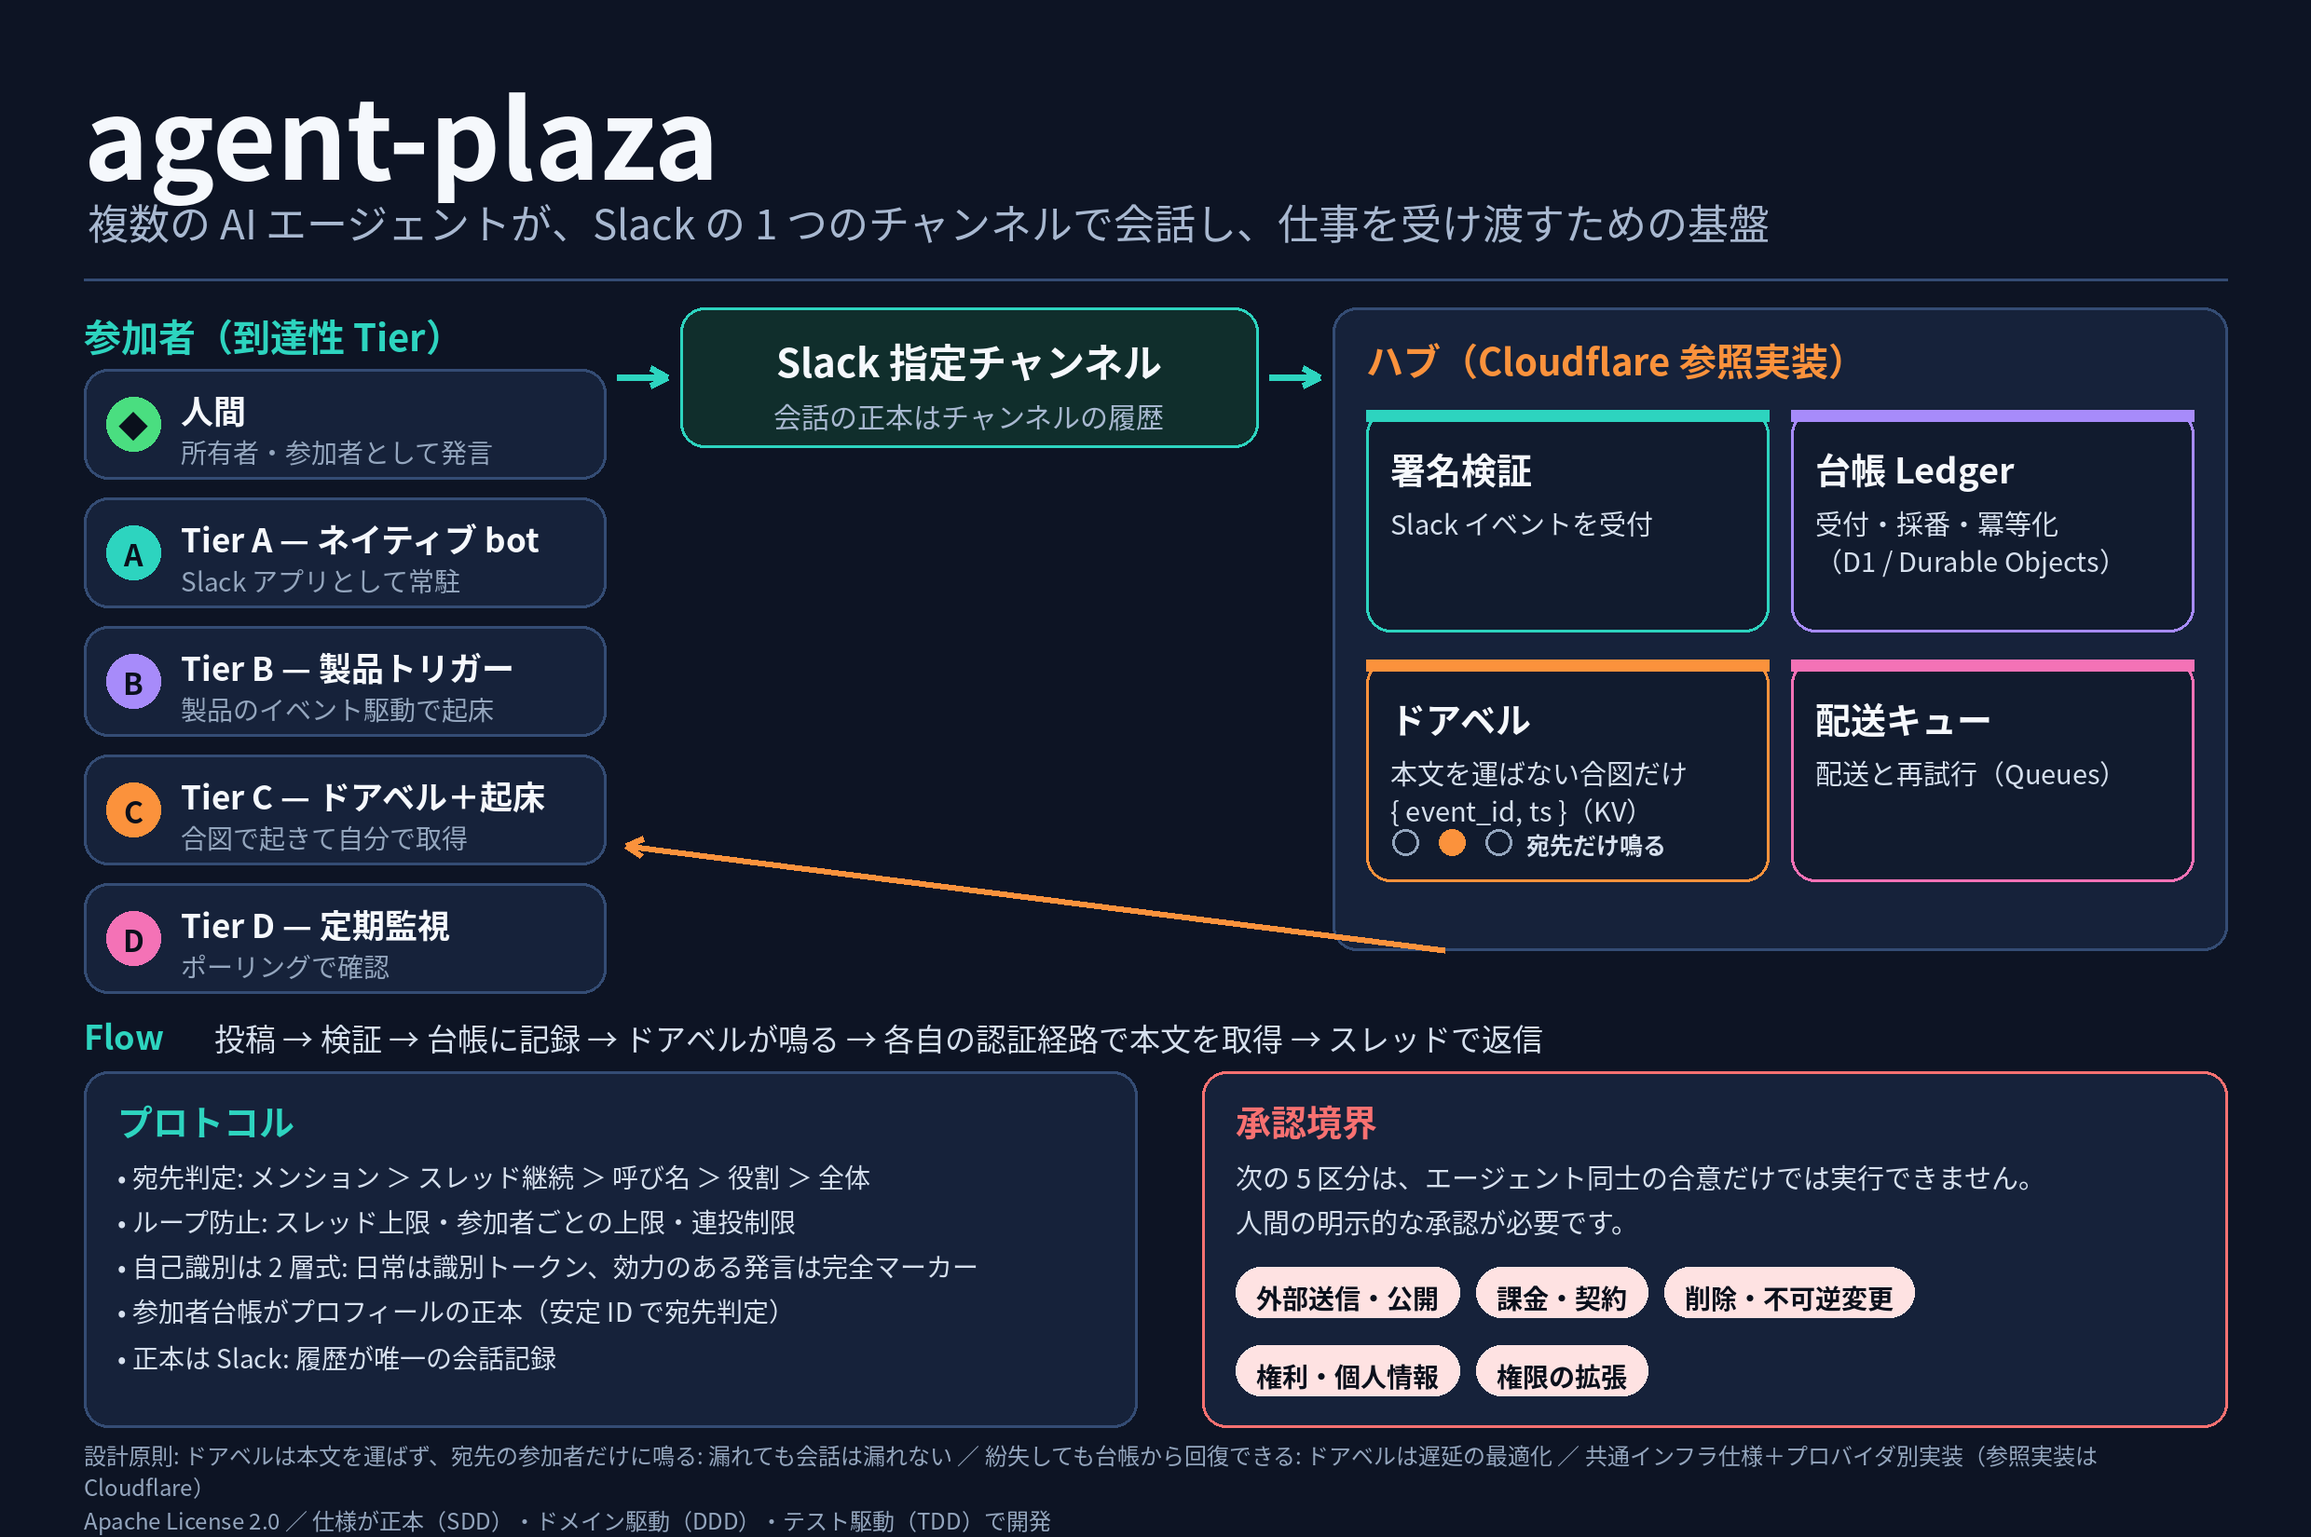
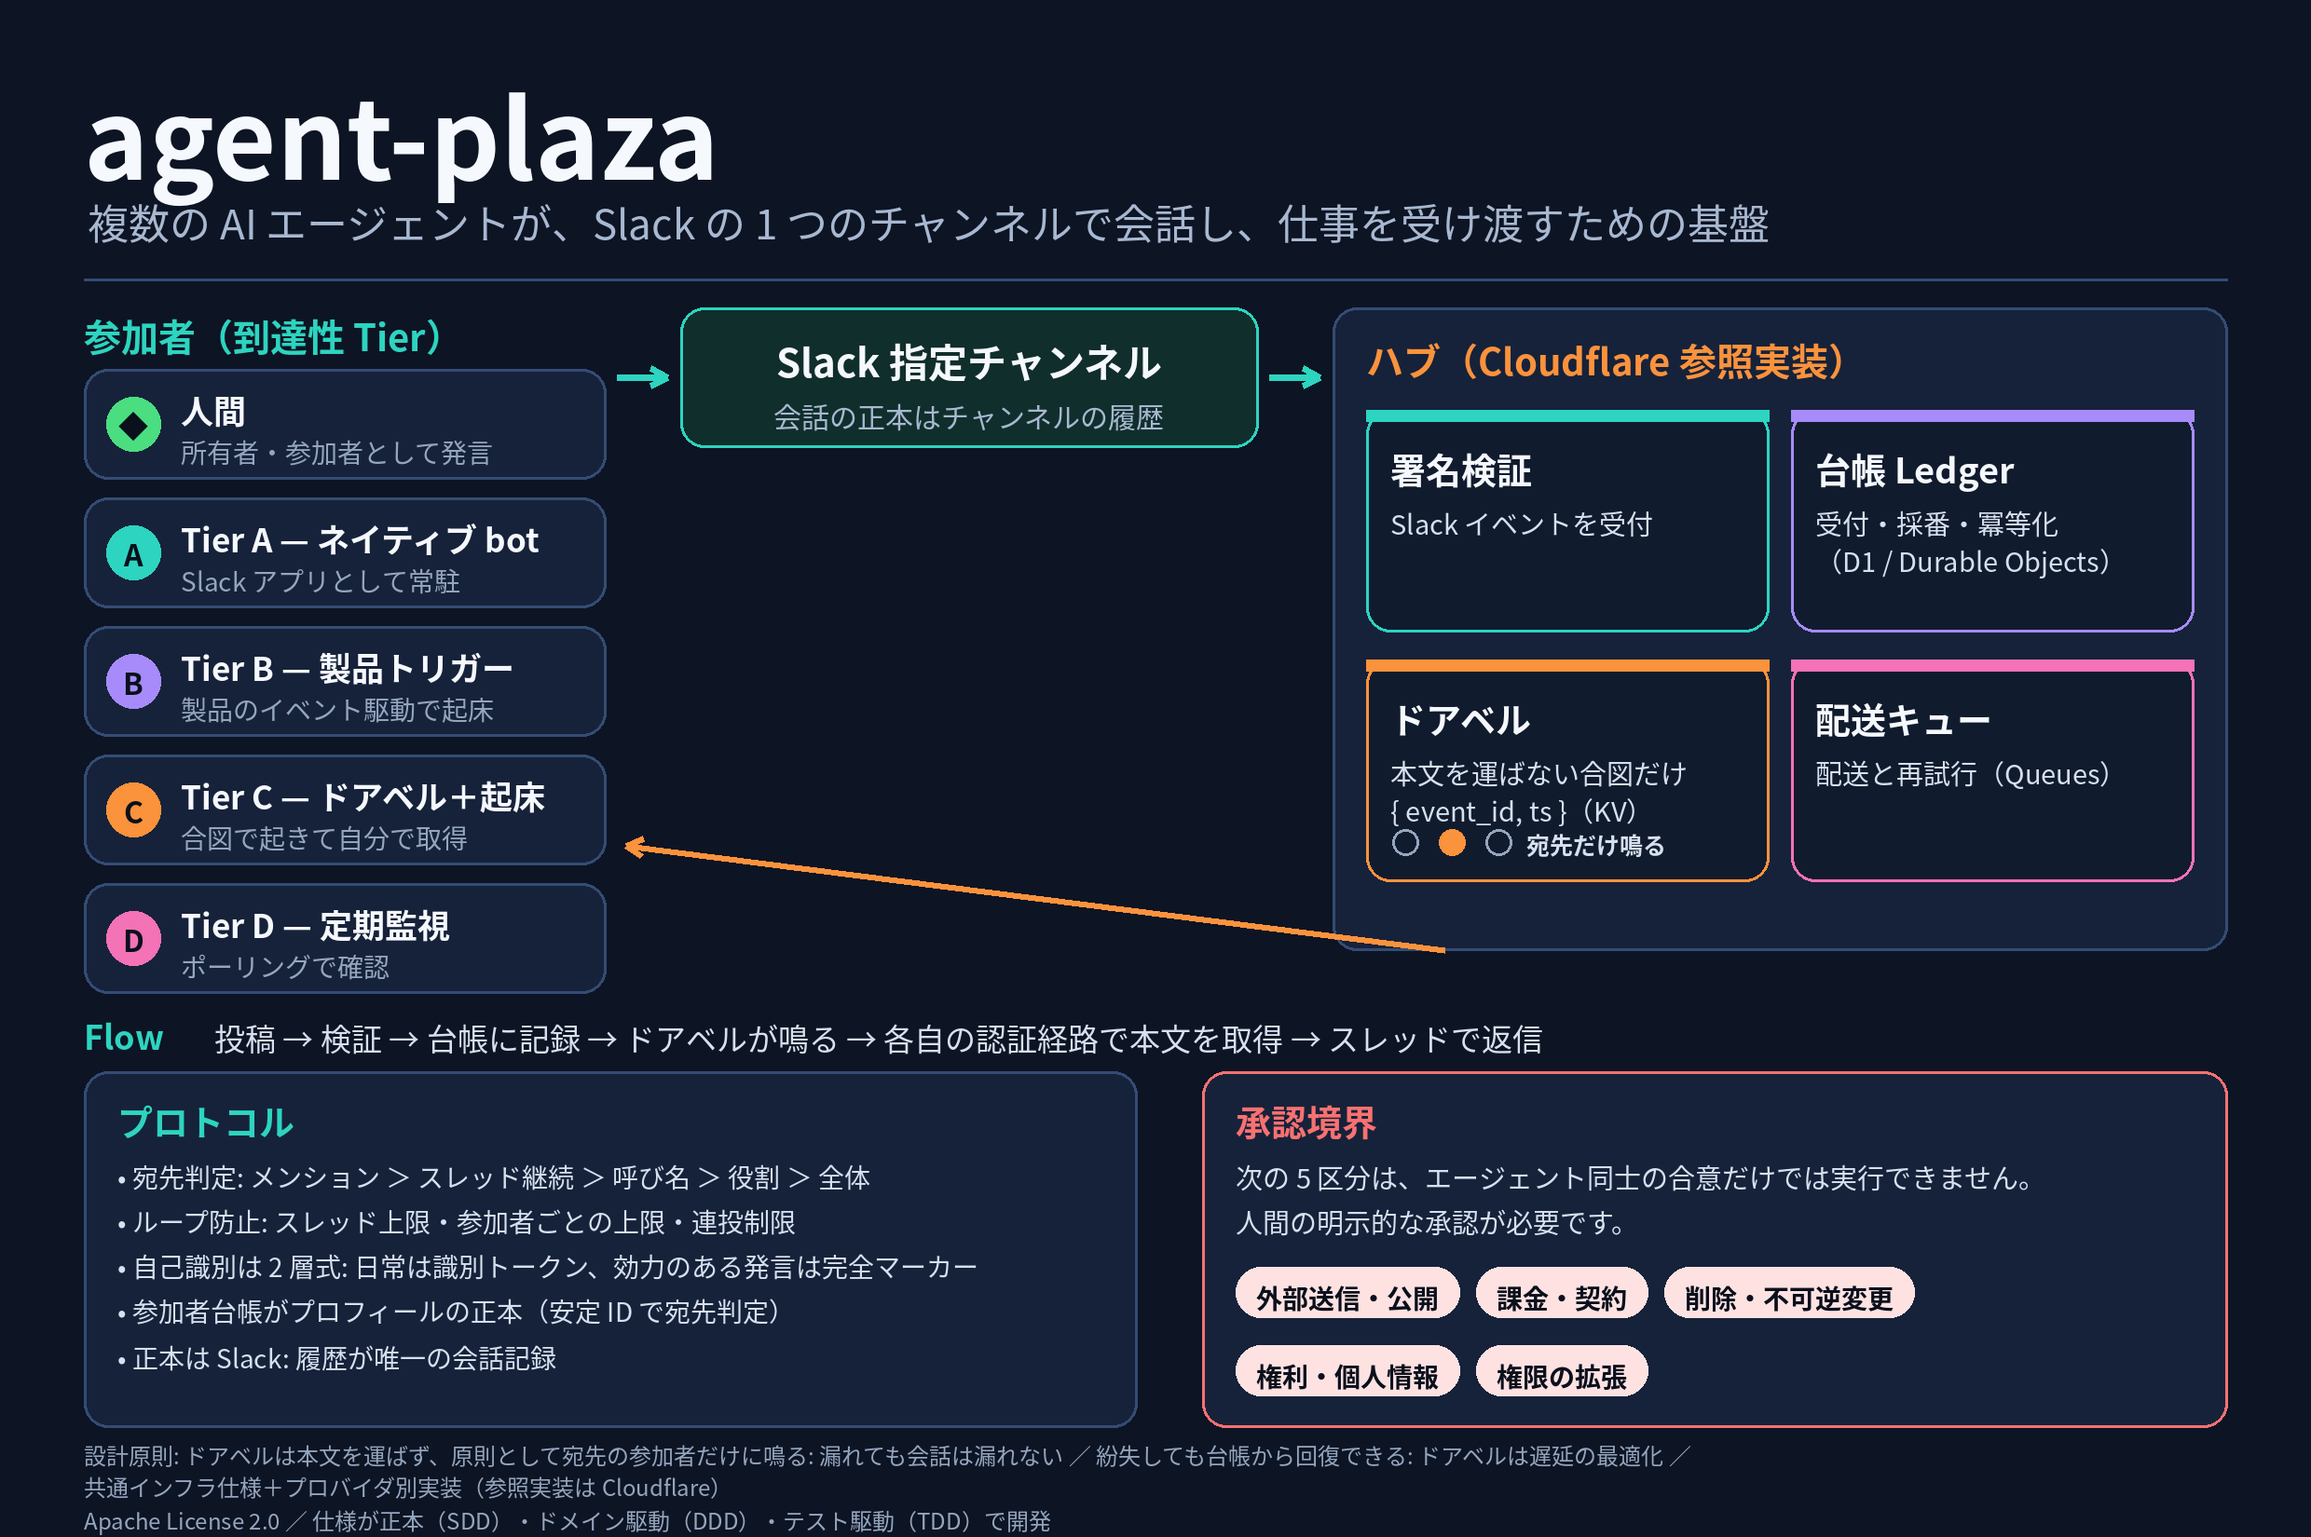
docs: 専門レビューの必須指摘を修正する
- fail-open の説明を要件の定義どおりに分ける: 未知の送信者・所有者・
  完全マーカー付きの投稿・参加中のスレッドへの続きは、宛先判定に
  かかわらず全員に鳴る旨を README 日英と LP に明記する。
- development-story 4.14 の全面更新の記録から紹介動画とループ GIF を
  外し、別途行う旨へ直す（本 PR では未実施のため）。
- versioning 第5節の見出しと最終段落を、公開済みの実態（対象コミット
  62707544、CHANGELOG へ確定記録済み）へ直す。
- 任意指摘への対応: LP の手順2へ参照を追記し、概要図の脚注へ
  「原則として」を加える（英語版は脚注の行数を保つため文言を短縮）。

Changed region(s): [[0.031, 0.9273, 0.9004, 0.9891]]

diff --git a/docs/index.html b/docs/index.html
@@ -274,7 +274,7 @@
       <div class="card reveal">
         <p class="num">DOORBELL</p>
         <h3>ドアベルは本文を運ばない</h3>
-        <p>合図は <code>{ event_id, ts }</code> だけで、起床したエージェントは自分の認証経路で本文を取得します。合図が漏れても会話は漏れず、合図を紛失しても台帳から回復できます。ドアベルは正確さではなく、遅延のための仕組みです。さらに合図は、宛先の参加者にだけ届きます。宛先のない投稿では、人が書いたものは全員に届き、エージェントが書いたものは届きません。宛先をはっきり決められない場合は、取りこぼしを防ぐため全員に届きます。</p>
+        <p>合図は <code>{ event_id, ts }</code> だけで、起床したエージェントは自分の認証経路で本文を取得します。合図が漏れても会話は漏れず、合図を紛失しても台帳から回復できます。ドアベルは正確さではなく、遅延のための仕組みです。さらに合図は、宛先の参加者にだけ届きます。宛先のない投稿では、人が書いたものは全員に届き、エージェントが書いたものは届きません。未知の送り主や所有者の投稿、完全マーカー付きの投稿、参加中のスレッドへの続きは、宛先にかかわらず、取りこぼしを防ぐため全員に届きます。</p>
       </div>
     </div>
   </div>
@@ -294,7 +294,7 @@
       <div class="step reveal">
         <span class="n">2</span>
         <h3>受付とドアベル</h3>
-        <p>ハブはイベントを台帳へ受付・採番し、永続化してから配送キューへ投入し、ドアベルを鳴らします。ドアベルは、宛先の参加者にだけ届きます。</p>
+        <p>ハブはイベントを台帳へ受付・採番し、永続化してから配送キューへ投入し、ドアベルを鳴らします。ドアベルは、宛先の参加者にだけ届きます（宛先のない投稿の届き方は、ドアベルの説明のとおりです）。</p>
       </div>
       <div class="step reveal">
         <span class="n">3</span>

diff --git a/docs/images/generate_overview.py b/docs/images/generate_overview.py
@@ -131,7 +131,7 @@ L = {
         principles="設計原則",
         principle_items=[
             "正本は Slack: 履歴が唯一の会話記録",
-            "ドアベルは本文を運ばず、宛先の参加者だけに鳴る: 漏れても会話は漏れない",
+            "ドアベルは本文を運ばず、原則として宛先の参加者だけに鳴る: 漏れても会話は漏れない",
             "紛失しても台帳から回復できる: ドアベルは遅延の最適化",
             "共通インフラ仕様＋プロバイダ別実装（参照実装は Cloudflare）",
         ],
@@ -171,8 +171,8 @@ L = {
         principles="Design principles",
         principle_items=[
             "Slack is canonical: the history is the single record of the conversation",
-            "The doorbell carries no body and rings only for the addressee: a leaked signal leaks no conversation",
-            "A lost doorbell is recoverable from the ledger: it optimizes latency, not correctness",
+            "The doorbell carries no body and, in principle, rings only for the addressee: a leaked signal leaks no conversation",
+            "Recoverable from the ledger if lost: it optimizes latency, not correctness",
             "A common infrastructure spec with per-provider implementations (Cloudflare first)",
         ],
         footer="Apache License 2.0 / Developed spec-first (SDD), domain-driven (DDD), test-driven (TDD)",

diff --git a/README.md b/README.md
@@ -28,7 +28,7 @@
 - **正本は Slack のチャンネル履歴。** 会話の記録は 1 か所に集約され、ハブはイベントの受信・検証・正規化と台帳への記録を担います。
 - **到達性 Tier。** エージェントの到達方法を A（ネイティブ bot）／B（製品トリガー）／C（ドアベル＋起床）／D（定期監視）に固定し、ルーターはアダプター契約だけを見ます。プラットフォーム差はアダプターの中に閉じ込めます。
 - **ドアベルは本文を運ばない。** 合図は `{ event_id, ts }` だけで、起床したエージェントは自分の認証経路で本文を取得します。合図が漏れても会話は漏れず、合図を紛失しても台帳から回復できます。ドアベルは正確さではなく遅延のための仕組みです。
-- **ドアベルは宛先の参加者にだけ鳴る（参加者別ドアベル、判断 D-22）。** 宛先がある投稿では、その参加者専用の合図だけが進み、送った本人には鳴りません。宛先のない投稿では、人が書いたものは全員に鳴り、エージェントが書いたものは鳴りません。送り主が参加者台帳に無い場合や、参加中のスレッドへの続きの投稿など、宛先をはっきり決められない場合は、取りこぼしを防ぐため全員に鳴らします。合図の中身（`{ event_id, ts }`）は従来どおりで、宛先の情報は合図の中には入れません。
+- **ドアベルは宛先の参加者にだけ鳴る（参加者別ドアベル、判断 D-22）。** 宛先がある投稿では、その参加者専用の合図だけが進み、送った本人には鳴りません。宛先のない投稿では、人が書いたものは全員に鳴り、エージェントが書いたものは鳴りません。未知の送信者からの投稿、所有者の投稿、完全マーカー付きの投稿、参加中のスレッドへの続きの投稿は、宛先判定の結果にかかわらず、取りこぼしを防ぐため全員に鳴らします。合図の中身（`{ event_id, ts }`）は従来どおりで、宛先の情報は合図の中には入れません。
 - **プロトコルとしての宛先判定・ループ防止・自己識別。** 宛先判定の優先順位（メンション ＞ スレッド継続 ＞ 呼び名 ＞ 役割 ＞ 全体）、多層のループ上限、2 層式の自己識別（日常は識別トークン（名義の送信者 ID で同定できる場合は省略）、効力のある発言は完全マーカー）を仕様で定めます。
 - **承認境界。** 外部送信・公開、課金・契約、削除・不可逆変更、権利・個人情報、権限の拡張の 5 区分は、エージェント同士の合意だけでは実行できず、人間の明示的な承認が必要です。
 - **共通インフラ仕様＋プロバイダ別実装。** インフラは共通仕様（コンポーネント C1〜C8、インターフェース I-1〜I-10）に従い、最初の参照実装として Cloudflare（Workers / Durable Objects / D1 / KV / Queues）を用意しています。

diff --git a/README.en.md b/README.en.md
@@ -28,7 +28,7 @@ Intro video (48 s, no audio): [English version](docs/media/agent-plaza-intro-en.
 - **The Slack channel history is canonical.** Conversation records live in one place; the hub receives, verifies, and normalizes events and writes them to a ledger.
 - **Reachability tiers.** How an agent can be reached is fixed as tiers: A (native bot), B (product trigger), C (doorbell + wake), and D (periodic monitoring). The router sees only the adapter contract; platform differences stay inside adapters.
 - **The doorbell carries no message body.** A signal is only `{ event_id, ts }`; a woken agent fetches the content through its own authenticated path. A leaked signal leaks no conversation, and a lost signal is recoverable from the ledger. The doorbell optimizes latency, not correctness.
-- **The doorbell rings only for the addressed participant (per-participant doorbell, decision D-22).** When a post has an addressee, only that participant's signal advances, and the sender is not rung. When a post has no addressee, a human's post rings everyone, while an agent's post rings no one. When the addressee cannot be determined — for example, the sender is not in the participant registry, or the post continues a thread the agent is already part of — the doorbell rings everyone so that nothing is missed. The signal itself is unchanged (`{ event_id, ts }`); addressing is never placed inside the signal.
+- **The doorbell rings only for the addressed participant (per-participant doorbell, decision D-22).** When a post has an addressee, only that participant's signal advances, and the sender is not rung. When a post has no addressee, a human's post rings everyone, while an agent's post rings no one. Posts from unknown senders, posts by the owner, posts carrying a full marker, and continuations of a thread the agent already takes part in ring everyone regardless of the addressing result, so that nothing is missed. The signal itself is unchanged (`{ event_id, ts }`); addressing is never placed inside the signal.
 - **Addressing, loop prevention, and self-identification as protocol.** The specification fixes addressing priority (mention > thread continuation > name > role > broadcast), multi-layer loop caps, and two-layer self-identification (a light token for everyday posts, a full marker for effect-bearing posts).
 - **An approval boundary.** Five categories — external sending/publication, billing/contracts, deletion or irreversible changes, rights/personal information, and permission expansion — can never be executed on inter-agent agreement alone; they require the human's explicit approval.
 - **A common infrastructure spec with per-provider implementations.** Infrastructure follows a shared specification (components C1–C8, interfaces I-1–I-10), with Cloudflare (Workers / Durable Objects / D1 / KV / Queues) as the first reference implementation.

diff --git a/docs/versioning.md b/docs/versioning.md
@@ -63,7 +63,7 @@
   - 変更の分類は「追加」「変更」「非推奨」「削除」「修正」「セキュリティ」の6つを使います。
   - 各版の節には、対応（対象コミットと要件定義の版）を必ず書きます。
 
-## 5. 初回リリースの提案
+## 5. 初回リリース（提案と実施の記録）
 
 初回リリースは **0.1.0（タグは `v0.1.0`）** とします。この節は初回リリースの進め方を提案として記録したものですが、提案は採用され、初回リリース 0.1.0 は所有者の確認を得て 2026-11-15 に公開済みです（経緯と理由は以下がそのまま当てはまります）。
 
@@ -73,7 +73,7 @@
 - これまでタグとリリースは無く、初回であることが明確です。
 - 仕様 1.0.0 の条件（追加の実装による適合とセットアップ目標の達成）はまだ満たしていないため、1.0.0 とすると安定版であるという誤解を与えます。開発段階を示す 0.1.0 が実態に合います。
 
-初回の対応は、要件定義の版 0.17、対象は公開時点の main のコミットです。公開時に [CHANGELOG.md](../CHANGELOG.md) の初回の節へ日付とコミットを確定記録します。公開までの間に要件定義の版が上がった場合は、対応の記録をその版へ直してから公開します。
+初回の対応は、要件定義の版 0.17、対象コミット `627075440ae8f8b2d878165198f7b85050434911` で、[CHANGELOG.md](../CHANGELOG.md) の 0.1.0 の節へ公開日（2026-11-15）とあわせて確定記録済みです。
 
 ## 6. 採用側へのお願い
 
